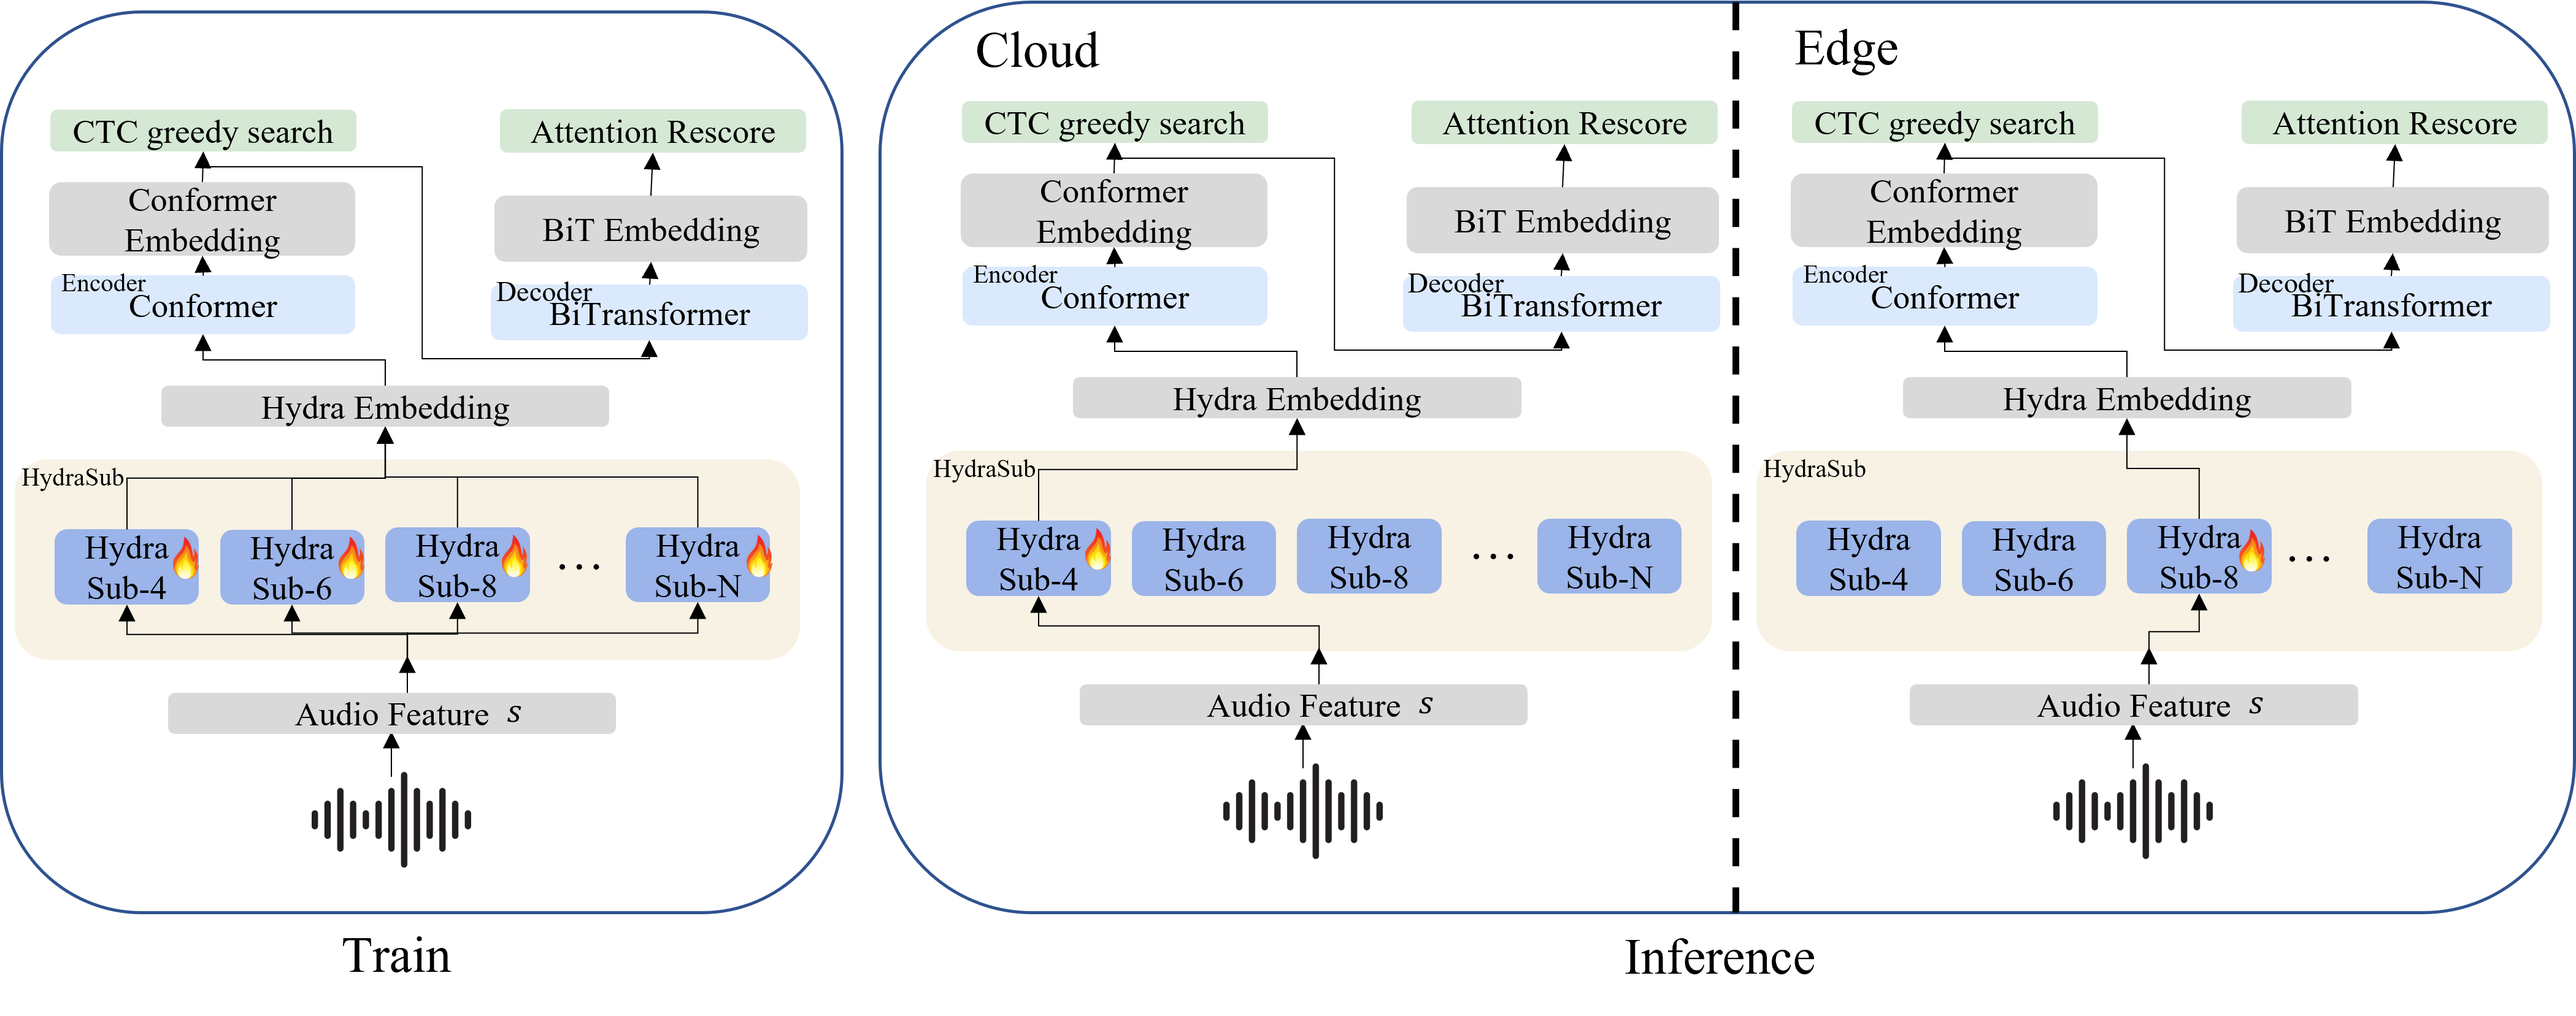
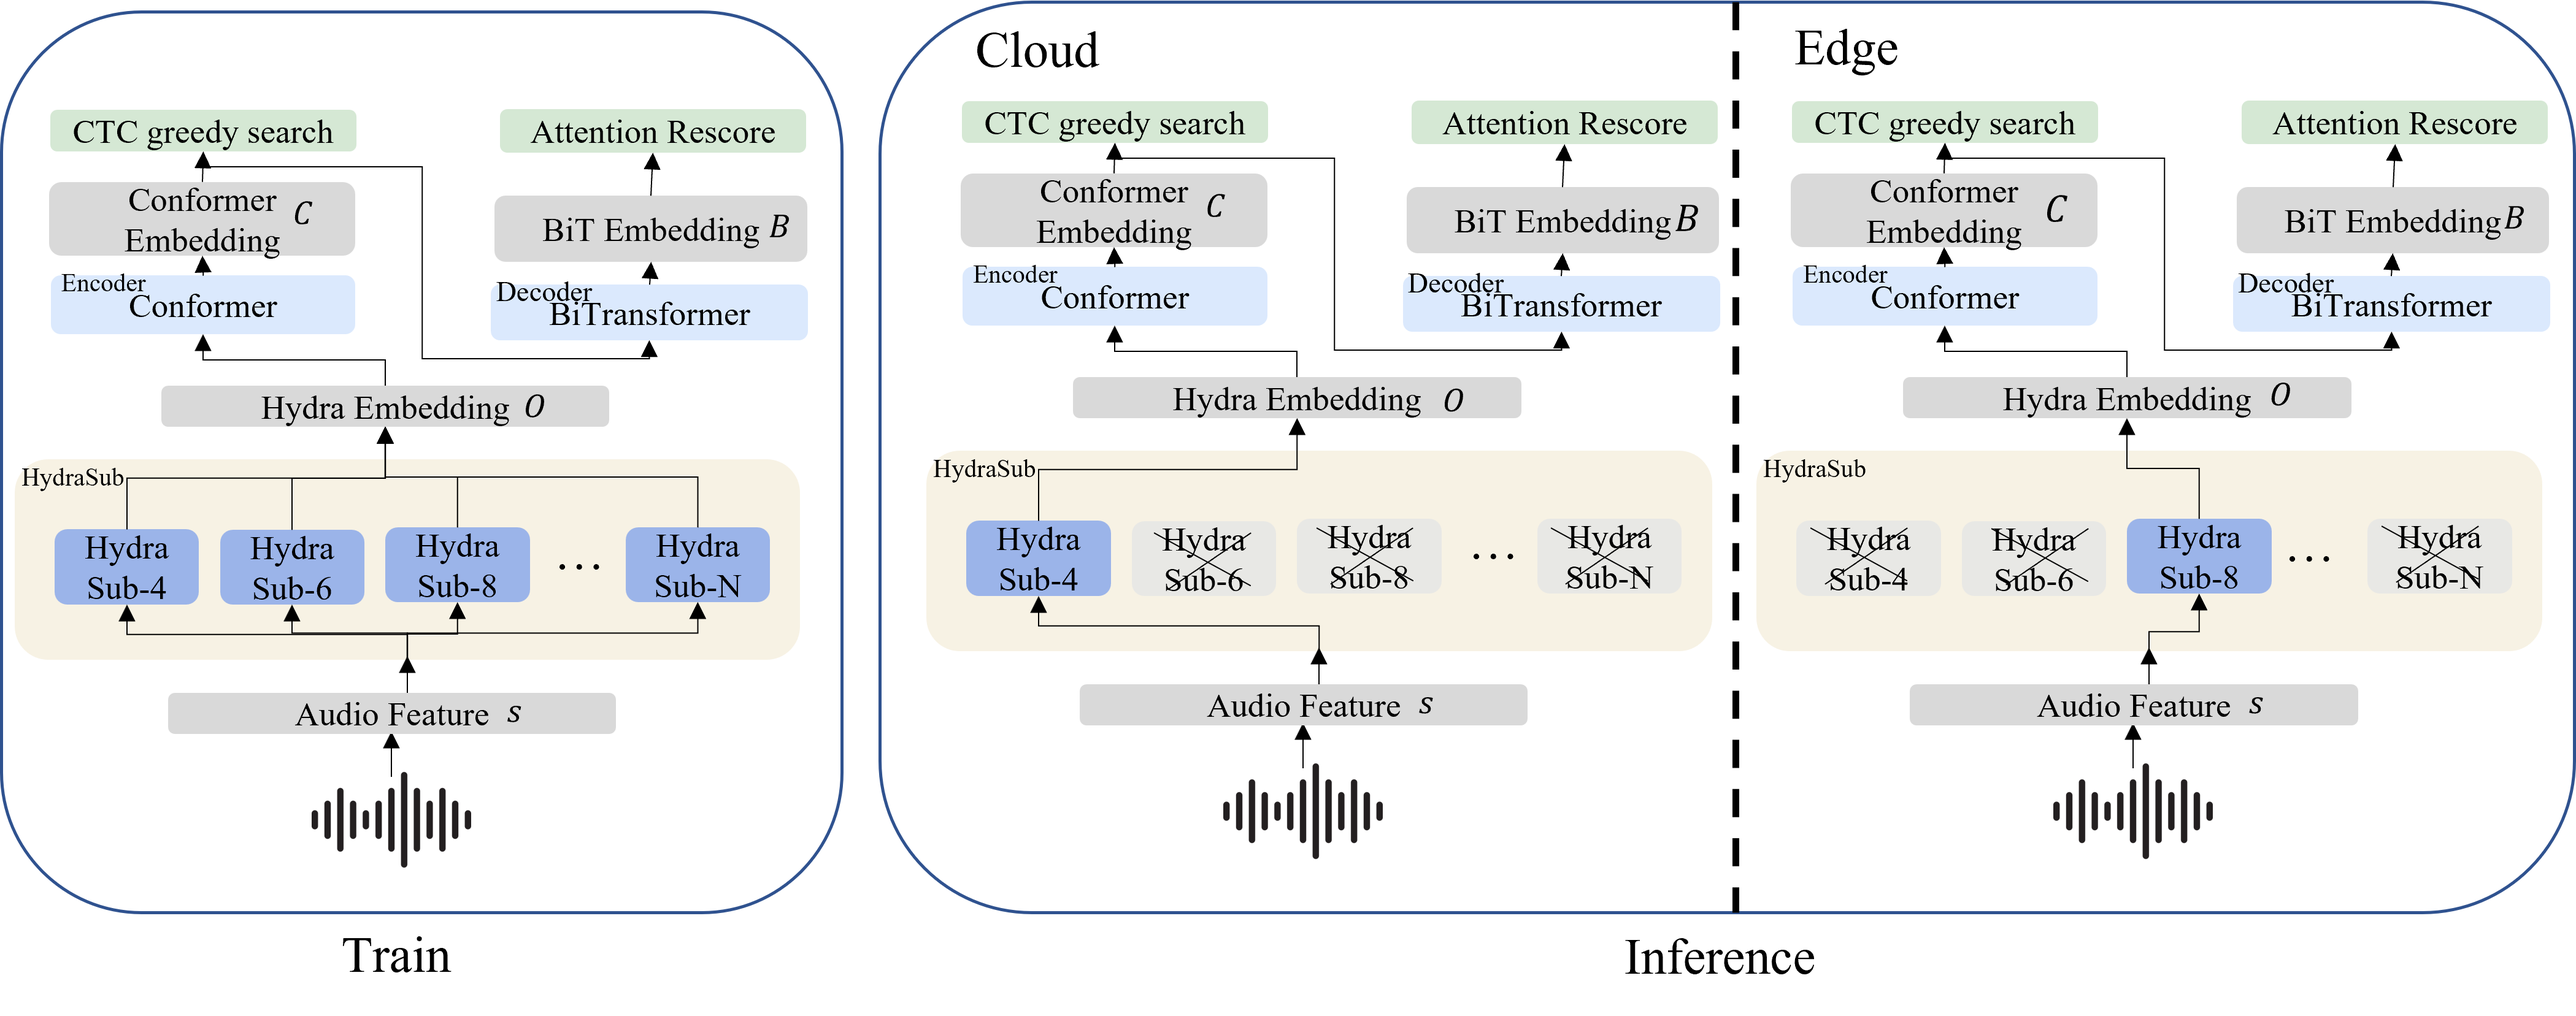
update figure

diff --git a/readme.md b/readme.md
@@ -16,7 +16,7 @@ We will make the checkpoint of our experiments public after the paper is accepte
 
 ## Training and Inference examples of HydraFormer
 ![model](picture/compare.png)
-*Figure 2: Comparison of training and inference examples of HydraFormer in the cloud and edge scenarios. <img src="picture/fire.png" alt="fire" width="10"/> designates branches that are in an active or engaged state during training and inference steps.
+*Figure 2: Comparison of training and inference examples of HydraFormer in the cloud and edge scenarios. <img src="picture/x.png" alt="x" width="10"/> designates branches that are not in an active or engaged state during the inference stage.
 
 For example, consider a hybrid cloud-edge system. The cloud ASR model is trained with a subsampling rate of 4, as accuracy is the paramount metric in the cloud scenario. Meanwhile, the edge ASR model is trained with a subsampling rate of 8, with speed as the primary concern. The edge side is responsible for quickly generating results, tolerating certain errors, as the final outcomes will be replaced by the more accurate results from the cloud. Traditionally, this would require training two independent models, doubling the training cost. By employing HydraFormer, one can configure HydraSub as a combination of subsampling rates 4 and 8. In this setup, a single model can **adapt to both cloud and edge scenarios**, effectively reducing the training cost by **50%** compared to the conventional approach.
 
